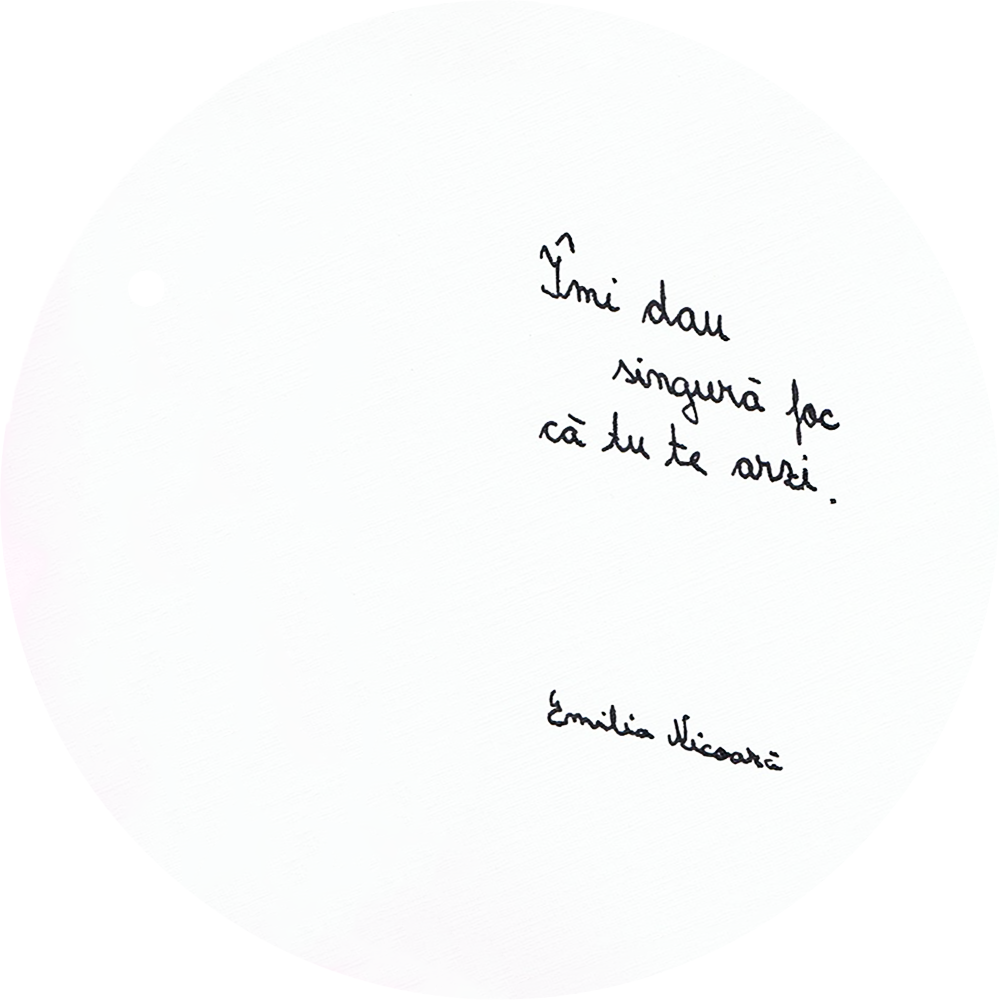
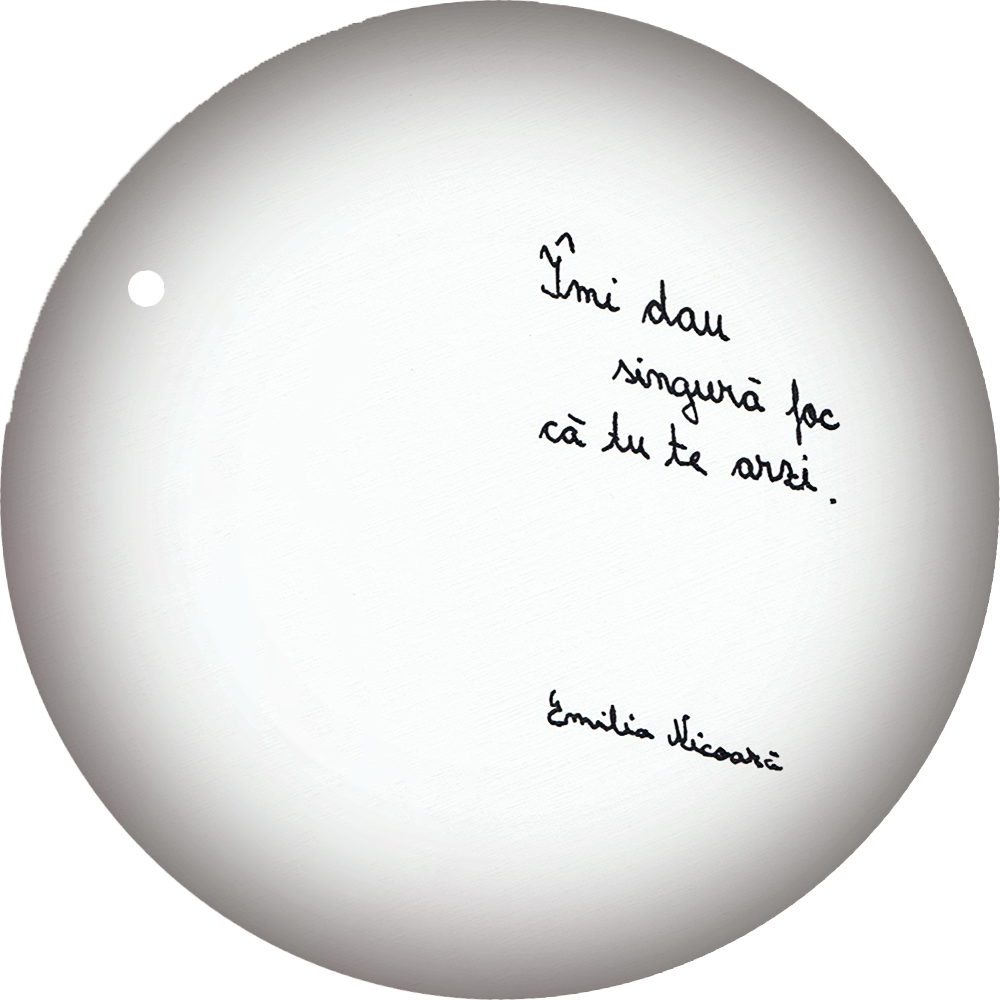
Design change

diff --git a/style.css b/style.css
@@ -5,8 +5,17 @@
 @import url('https://fonts.googleapis.com/css2?family=Great+Vibes&display=swap');
 @import url('https://fonts.googleapis.com/css2?family=Allura&family=Great+Vibes&display=swap');
 
+:root{
+  --primary: #996d42;
+  --secondary: #744e28;
+  --text: #B29172;
+  --accent: #573412;
+  --lightest: #f5efed;
+}
+
 *{
   font-family: 'Dancing Script', cursive;
+  user-select: none;
 }
 
 body{
@@ -15,11 +24,13 @@ body{
 
 .background{
   margin: 0;
-  background-color: #c7d0d4;
+  background-color: var(--text);
+  background: url("Resources/background.jpg") no-repeat fixed top;
+  background-size: cover;
 }
 
 .shadowed{
-  box-shadow: 0.1em 0.1em 0.2em 0.2em #c9e2ef;
+  box-shadow: 0.1em 0.1em 5em 0.2em rgba(30, 16, 8, 0.6);
 }
 
 .link{
@@ -31,11 +42,11 @@ body{
   font-weight: bold;
   font-size: 10pt;
 
-  color: #2e4652;
+  color: var(--accent);
 }
 
 .link a{
-  color: #2e4652;
+  color: var(--accent);
   text-decoration: underline;
 }
 
@@ -52,9 +63,7 @@ body{
   height: 90%;
   width: 95%;
   position: fixed;
-  margin: 2.5% 2.5%;
-  overflow: hidden;
-  background: radial-gradient(circle, #e5f0f5 30%, #c7d0d4 100%);
+  margin: 4% 2.5%;
 }
 
 .border-left{
@@ -62,8 +71,8 @@ body{
   width: 70%;
   position: absolute;
   z-index: 3;
-  border-top: 5px solid #415e6b;
-  border-left: 5px solid #415e6b;
+  border-top: 5px solid var(--secondary);
+  border-left: 5px solid var(--secondary);
 }
 
 .border-right{
@@ -73,8 +82,8 @@ body{
   width: 70%;
   position: absolute;
   z-index: 3;
-  border-bottom: 5px solid #415e6b;
-  border-right: 5px solid #415e6b;
+  border-bottom: 5px solid var(--secondary);
+  border-right: 5px solid var(--secondary);
 }
   
 .page {
@@ -89,8 +98,12 @@ body{
   transform-origin: 14.6% 28.8%;
 }
 
+.inner-shadow{
+  box-shadow: inset 5px 5px 10px 10px black;
+}
+
 .shadow{
-  background-color: #415e6ba9;
+  background-color: hsla(32, 67%, 11%, 0.6);
   top: 10%;
   left: 15%;
   
@@ -105,10 +118,9 @@ body{
 
 .burger-menu{
   right: 0;
-  margin: 2.5% 2.5%;
   padding-top: 0;
 
-  height: 85.8%;
+  height: 97%;
 
   position: fixed;
   z-index: 2;
@@ -127,21 +139,21 @@ body{
   right: 0;
 
   padding: 0.5% 0.5%;
-  margin: 0.5% 3%;
+  margin: 0.5% 1.5%;
 
-  background-color: #567483;
+  background-color: var(--primary);
   border: 0;
   border-radius: 0.3em;
 }
 
 .burger-menu .button:hover {
-  background-color: #415e6b;
+  background-color: var(--secondary);
 }
 
 .burger-menu .button .line{
   width: 95%;
   height: 5%;
-  background-color:rgb(245, 239, 237);
+  background-color:var(--lightest);
   border-radius: 50em;
 
   transition-duration: 200ms;
@@ -150,18 +162,16 @@ body{
 .burger-menu .content{
   display: none;
 
-  background-color: #567483;
-  color: rgb(245, 239, 237);
+  background-color: var(--primary);
+  color: var(--lightest);
 
   height: 100%;
-  aspect-ratio: 1/1.2;
+  aspect-ratio: 1/1.4;
 
   margin: 0;
-  border-top: 5px solid #415e6b;
-  border-right: 5px solid #415e6b;
-  border-bottom: 5px solid #415e6b;
-  border-radius: 10px 0px 0px 10px;
-  padding-top: 3%;
+  border-left: 10px solid var(--secondary);
+  border-radius: 5px 0px 0px 10px;
+  padding-top: 6%;
   padding-bottom: 1%;
 }
 
@@ -185,7 +195,7 @@ body{
 
 .selected{
   opacity: 100%;
-  border-bottom: 2px solid rgb(245, 239, 237);
+  border-bottom: 2px solid var(--lightest);
 }
 
 .unselected{
@@ -214,7 +224,7 @@ body{
 }
 
 .tabel-of-content li{
-  padding: 0.7% 6%;
+  padding: 1% 6%;
 }
 
 .tabel-of-content li:hover{
@@ -247,19 +257,7 @@ body{
 /********************* Styling for the scroll bar and scroll thumb *********************/
 
 ::-webkit-scrollbar {
-  width: 10px;
-}
-
-::-webkit-scrollbar-track {
-  background: #c7d0d4; 
-}
- 
-::-webkit-scrollbar-thumb {
-  background: #415e6b; 
-}
-
-::-webkit-scrollbar-thumb:hover {
-  background: #2e4652; 
+  display: none;
 }
 
 /********************* Responsiveness *********************/

diff --git a/index.html b/index.html
@@ -51,8 +51,6 @@
             </aside>
         <div class="container">
             <div class="book">
-                <div class="border-left"></div>
-                <div class="border-right"></div>
                 <img class="page shadowed" src="Resources/Coperta-spate-exterior.png" alt="Back cover verso">
                 <img class="page shadowed" src="Resources/Coperta-spate-interior.png" alt="Back cover">
                 <img class="page shadowed" src="Resources/page-18.png" alt="Page 18">
